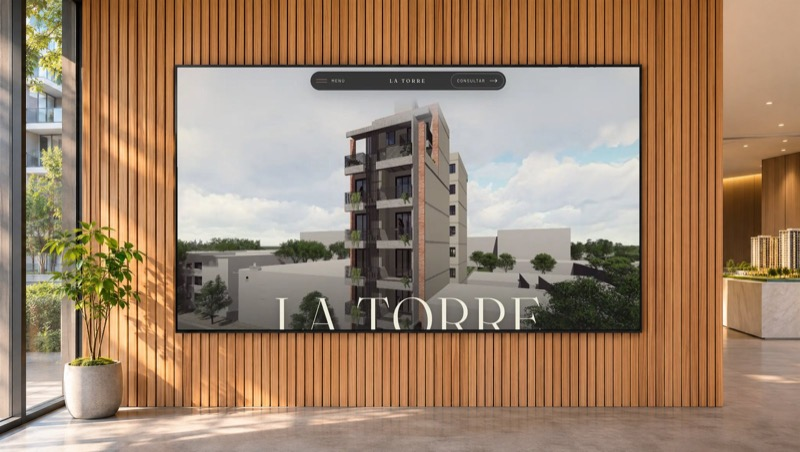
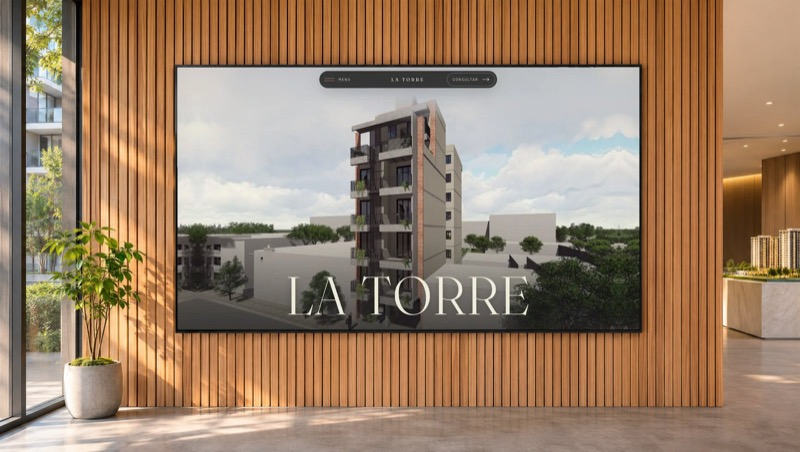
fix(proyectos): La Torre con el titulo completo en la pantalla
La pantalla de la escena es mas apaisada que la portada y se cortaba LA TORRE;
ahora la captura se ensancha con una franja espejada a los costados.

Changed region(s): [[0.2188, 0.1549, 0.8125, 0.7434], [0.6875, 0.2788, 0.8125, 0.3717], [0.625, 0.3097, 0.6875, 0.3717]]

diff --git a/index.html b/index.html
@@ -18,13 +18,13 @@
   <meta property="og:locale:alternate" content="en_US">
   <!-- La URL de la imagen social DEBE ser absoluta: los scrapers de
        LinkedIn/WhatsApp no resuelven rutas relativas. -->
-  <meta property="og:image" content="https://dtsystem.com.ar/assets/og.png?v=20261112l">
+  <meta property="og:image" content="https://dtsystem.com.ar/assets/og.png?v=20261112m">
   <meta property="og:image:width" content="1200">
   <meta property="og:image:height" content="630">
   <meta property="og:image:alt" content="DT System: webs, tiendas y sistemas a medida hechos por David Taranto en Salta">
   <link rel="canonical" href="https://dtsystem.com.ar/">
   <meta name="twitter:card" content="summary_large_image">
-  <meta name="twitter:image" content="https://dtsystem.com.ar/assets/og.png?v=20261112l">
+  <meta name="twitter:image" content="https://dtsystem.com.ar/assets/og.png?v=20261112m">
   <!-- Favicon: marca "dt/" en SVG inline (sin archivo extra) -->
   <!-- ?v=2 fuerza a los navegadores a descartar el favicon viejo cacheado -->
   <link rel="icon" href="assets/brand/favicon-64.png?v=2" type="image/png" sizes="64x64">
@@ -38,7 +38,7 @@
   <link rel="preload" as="style" href="https://fonts.googleapis.com/css2?family=Instrument+Sans:wght@400;500;700&family=Geist+Mono:wght@400;700&display=swap">
   <link rel="stylesheet" href="https://fonts.googleapis.com/css2?family=Instrument+Sans:wght@400;500;700&family=Geist+Mono:wght@400;700&display=swap">
 
-  <link rel="stylesheet" href="styles.css?v=20261112l">
+  <link rel="stylesheet" href="styles.css?v=20261112m">
 
   <!-- Tema inicial ANTES del primer paint (evita flash):
        localStorage manda; si no hay, respeta prefers-color-scheme. -->
@@ -297,7 +297,7 @@
              (scripts/escena.py) y las tarjetas se apilan al bajar -->
         <div class="dest" id="dest">
           <a class="dest-card" style="--i:0;--fx:51%" href="https://edificiolatorre.com" target="_blank" rel="noopener" data-cursor="Visitar ↗" data-cursor-en="Visit ↗">
-            <img src="assets/casos/escena-latorre.jpg" srcset="assets/casos/escena-latorre-cel.jpg 800w, assets/casos/escena-latorre.jpg 1600w" sizes="(max-width: 980px) 100vw, 1320px" width="1600" height="905" alt="Edificio La Torre en pantalla" loading="lazy" decoding="async">
+            <img src="assets/casos/escena-latorre.jpg?v=2" srcset="assets/casos/escena-latorre-cel.jpg?v=2 800w, assets/casos/escena-latorre.jpg?v=2 1600w" sizes="(max-width: 980px) 100vw, 1320px" width="1600" height="905" alt="Edificio La Torre en pantalla" loading="lazy" decoding="async">
             <div class="dest-info"><h3>Edificio La Torre</h3><small data-i18n="c13s">Emprendimiento inmobiliario · Salta</small></div>
             <span class="dest-ver" aria-hidden="true">↗</span>
           </a>
@@ -972,7 +972,7 @@
   </footer>
 
   <script src="assets/land-data.js" defer></script>
-  <script src="main.js?v=20261112l" defer></script>
-  <script src="medicion.js?v=20261112l" defer></script>
+  <script src="main.js?v=20261112m" defer></script>
+  <script src="medicion.js?v=20261112m" defer></script>
 </body>
 </html>

diff --git a/sistemas-de-gestion/index.html b/sistemas-de-gestion/index.html
@@ -13,7 +13,7 @@
   <meta property="og:url" content="https://dtsystem.com.ar/sistemas-de-gestion/">
   <meta property="og:site_name" content="DT System">
   <meta property="og:locale" content="es_AR">
-  <meta property="og:image" content="https://dtsystem.com.ar/assets/og.png?v=20261112l">
+  <meta property="og:image" content="https://dtsystem.com.ar/assets/og.png?v=20261112m">
   <meta property="og:image:width" content="1200">
   <meta property="og:image:height" content="630">
   <meta name="twitter:card" content="summary_large_image">
@@ -22,7 +22,7 @@
   <link rel="preconnect" href="https://fonts.googleapis.com">
   <link rel="preconnect" href="https://fonts.gstatic.com" crossorigin>
   <link rel="stylesheet" href="https://fonts.googleapis.com/css2?family=Instrument+Sans:wght@400;500;700&family=Geist+Mono:wght@400;700&display=swap">
-  <link rel="stylesheet" href="/styles.css?v=20261112l">
+  <link rel="stylesheet" href="/styles.css?v=20261112m">
   <script>
     (function () {
       var t = null; try { t = localStorage.getItem("dt-theme"); } catch (e) {}
@@ -225,6 +225,6 @@
       try { localStorage.setItem("dt-theme", t); } catch (e) {}
     });
   </script>
-  <script src="/medicion.js?v=20261112l" defer></script>
+  <script src="/medicion.js?v=20261112m" defer></script>
 </body>
 </html>

diff --git a/automatizaciones/index.html b/automatizaciones/index.html
@@ -13,7 +13,7 @@
   <meta property="og:url" content="https://dtsystem.com.ar/automatizaciones/">
   <meta property="og:site_name" content="DT System">
   <meta property="og:locale" content="es_AR">
-  <meta property="og:image" content="https://dtsystem.com.ar/assets/og.png?v=20261112l">
+  <meta property="og:image" content="https://dtsystem.com.ar/assets/og.png?v=20261112m">
   <meta property="og:image:width" content="1200">
   <meta property="og:image:height" content="630">
   <meta name="twitter:card" content="summary_large_image">
@@ -22,7 +22,7 @@
   <link rel="preconnect" href="https://fonts.googleapis.com">
   <link rel="preconnect" href="https://fonts.gstatic.com" crossorigin>
   <link rel="stylesheet" href="https://fonts.googleapis.com/css2?family=Instrument+Sans:wght@400;500;700&family=Geist+Mono:wght@400;700&display=swap">
-  <link rel="stylesheet" href="/styles.css?v=20261112l">
+  <link rel="stylesheet" href="/styles.css?v=20261112m">
   <script>
     (function () {
       var t = null; try { t = localStorage.getItem("dt-theme"); } catch (e) {}
@@ -192,6 +192,6 @@
       try { localStorage.setItem("dt-theme", t); } catch (e) {}
     });
   </script>
-  <script src="/medicion.js?v=20261112l" defer></script>
+  <script src="/medicion.js?v=20261112m" defer></script>
 </body>
 </html>

diff --git a/tiendas-online/index.html b/tiendas-online/index.html
@@ -13,7 +13,7 @@
   <meta property="og:url" content="https://dtsystem.com.ar/tiendas-online/">
   <meta property="og:site_name" content="DT System">
   <meta property="og:locale" content="es_AR">
-  <meta property="og:image" content="https://dtsystem.com.ar/assets/og.png?v=20261112l">
+  <meta property="og:image" content="https://dtsystem.com.ar/assets/og.png?v=20261112m">
   <meta property="og:image:width" content="1200">
   <meta property="og:image:height" content="630">
   <meta name="twitter:card" content="summary_large_image">
@@ -22,7 +22,7 @@
   <link rel="preconnect" href="https://fonts.googleapis.com">
   <link rel="preconnect" href="https://fonts.gstatic.com" crossorigin>
   <link rel="stylesheet" href="https://fonts.googleapis.com/css2?family=Instrument+Sans:wght@400;500;700&family=Geist+Mono:wght@400;700&display=swap">
-  <link rel="stylesheet" href="/styles.css?v=20261112l">
+  <link rel="stylesheet" href="/styles.css?v=20261112m">
   <script>
     (function () {
       var t = null; try { t = localStorage.getItem("dt-theme"); } catch (e) {}
@@ -227,6 +227,6 @@
       try { localStorage.setItem("dt-theme", t); } catch (e) {}
     });
   </script>
-  <script src="/medicion.js?v=20261112l" defer></script>
+  <script src="/medicion.js?v=20261112m" defer></script>
 </body>
 </html>

diff --git a/proyectos-3d/index.html b/proyectos-3d/index.html
@@ -13,7 +13,7 @@
   <meta property="og:url" content="https://dtsystem.com.ar/proyectos-3d/">
   <meta property="og:site_name" content="DT System">
   <meta property="og:locale" content="es_AR">
-  <meta property="og:image" content="https://dtsystem.com.ar/assets/og.png?v=20261112l">
+  <meta property="og:image" content="https://dtsystem.com.ar/assets/og.png?v=20261112m">
   <meta property="og:image:width" content="1200">
   <meta property="og:image:height" content="630">
   <meta name="twitter:card" content="summary_large_image">
@@ -22,7 +22,7 @@
   <link rel="preconnect" href="https://fonts.googleapis.com">
   <link rel="preconnect" href="https://fonts.gstatic.com" crossorigin>
   <link rel="stylesheet" href="https://fonts.googleapis.com/css2?family=Instrument+Sans:wght@400;500;700&family=Geist+Mono:wght@400;700&display=swap">
-  <link rel="stylesheet" href="/styles.css?v=20261112l">
+  <link rel="stylesheet" href="/styles.css?v=20261112m">
   <script>
     (function () {
       var t = null; try { t = localStorage.getItem("dt-theme"); } catch (e) {}
@@ -218,6 +218,6 @@
       try { localStorage.setItem("dt-theme", t); } catch (e) {}
     });
   </script>
-  <script src="/medicion.js?v=20261112l" defer></script>
+  <script src="/medicion.js?v=20261112m" defer></script>
 </body>
 </html>

diff --git a/diseno-web/index.html b/diseno-web/index.html
@@ -13,7 +13,7 @@
   <meta property="og:url" content="https://dtsystem.com.ar/diseno-web/">
   <meta property="og:site_name" content="DT System">
   <meta property="og:locale" content="es_AR">
-  <meta property="og:image" content="https://dtsystem.com.ar/assets/og.png?v=20261112l">
+  <meta property="og:image" content="https://dtsystem.com.ar/assets/og.png?v=20261112m">
   <meta property="og:image:width" content="1200">
   <meta property="og:image:height" content="630">
   <meta name="twitter:card" content="summary_large_image">
@@ -22,7 +22,7 @@
   <link rel="preconnect" href="https://fonts.googleapis.com">
   <link rel="preconnect" href="https://fonts.gstatic.com" crossorigin>
   <link rel="stylesheet" href="https://fonts.googleapis.com/css2?family=Instrument+Sans:wght@400;500;700&family=Geist+Mono:wght@400;700&display=swap">
-  <link rel="stylesheet" href="/styles.css?v=20261112l">
+  <link rel="stylesheet" href="/styles.css?v=20261112m">
   <script>
     (function () {
       var t = null; try { t = localStorage.getItem("dt-theme"); } catch (e) {}
@@ -272,6 +272,6 @@
       try { localStorage.setItem("dt-theme", t); } catch (e) {}
     });
   </script>
-  <script src="/medicion.js?v=20261112l" defer></script>
+  <script src="/medicion.js?v=20261112m" defer></script>
 </body>
 </html>
